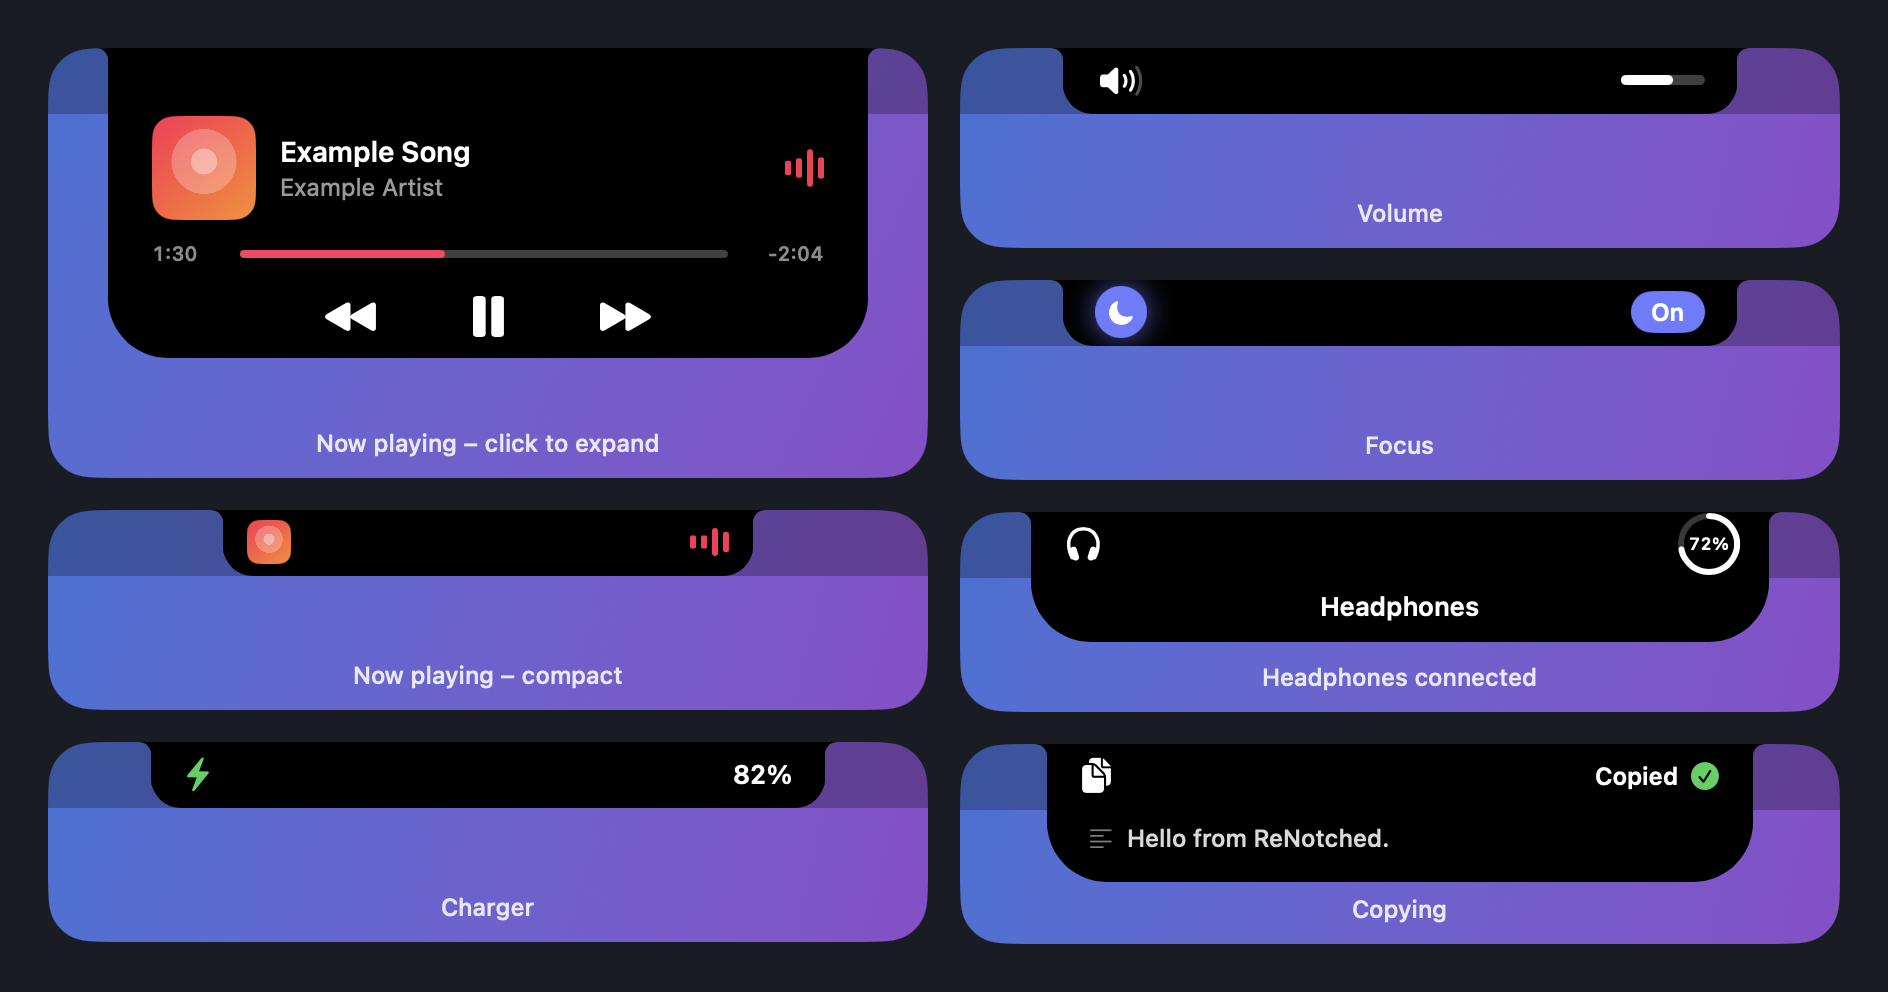
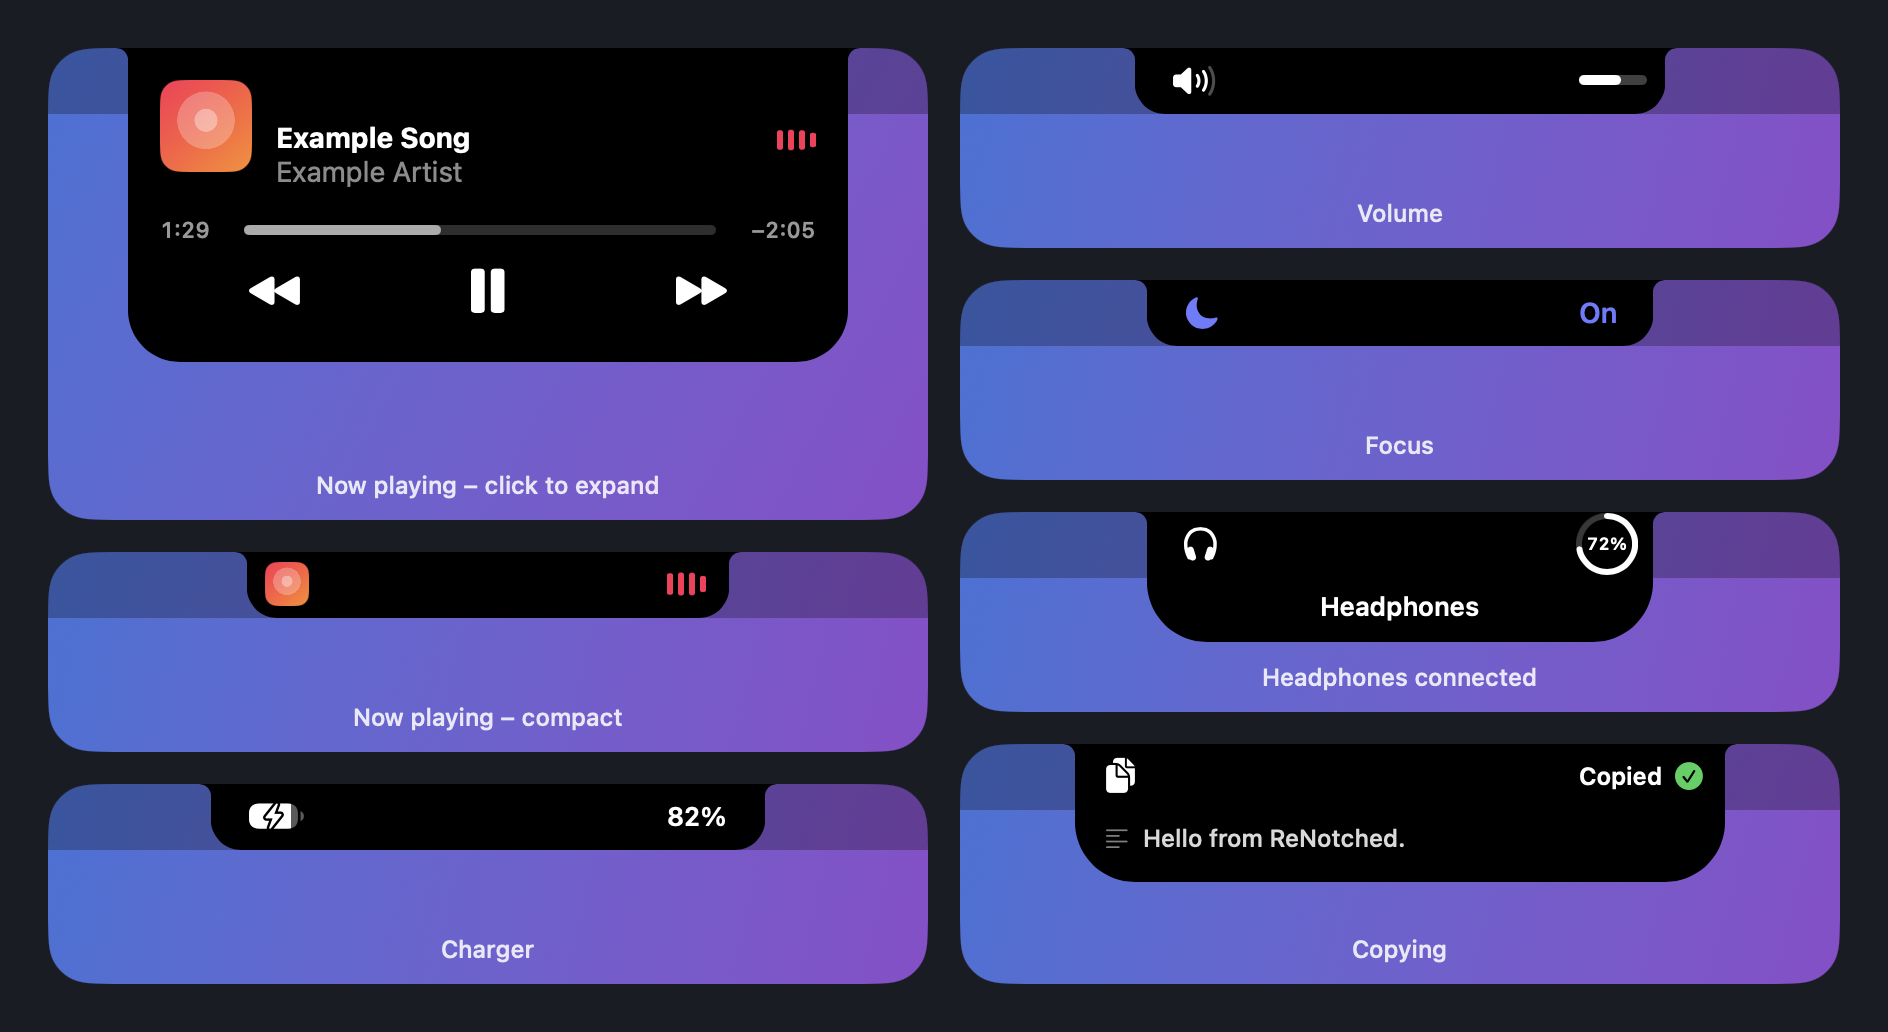
Battery from SF Symbols with the exact charge, volume island at 0, new README screenshot, version 1.0.2
- Charging shows the system battery symbol (with bolt while charging), filled to the exact charge
- Pressing volume down at 0 (or up at the maximum) shows the island too, as macOS does with its overlay
- README screenshot and feature list updated to the current design

diff --git a/Sources/ReNotched/Views/ChargingView.swift b/Sources/ReNotched/Views/ChargingView.swift
@@ -2,8 +2,11 @@ import SwiftUI
 
 // MARK: - Charging
 
+/// Charger plugged in or removed: a battery filled to the exact charge on the left (with a bolt inside while
+/// charging, like the macOS menu bar), the percentage on the right.
 struct ChargingContent: View {
     @ObservedObject var model: IslandModel
+    @State private var appeared = false
 
     var body: some View {
         let (percent, plugged): (Int, Bool) = {
@@ -11,12 +14,40 @@ struct ChargingContent: View {
             return (0, false)
         }()
         SideLayout(notchWidth: model.notch.width, height: model.notch.height) {
-            Image(systemName: plugged ? "bolt.fill" : "battery.50percent")
-                .font(.system(size: 15, weight: .semibold))
-                .foregroundStyle(plugged ? .green : .white)
-                .symbolEffect(.bounce, options: .nonRepeating, value: plugged)
+            BatteryGlyph(level: appeared ? Double(percent) / 100 : 0, charging: plugged)
+                .scaleEffect(appeared ? 1 : 0.6)
+                .opacity(appeared ? 1 : 0)
         } right: {
             Text("\(percent)%").font(.system(size: 13, weight: .semibold).monospacedDigit()).foregroundStyle(.white)
         }
+        .onAppear { withAnimation(.spring(response: 0.5, dampingFraction: 0.75)) { appeared = true } }
+    }
+}
+
+/// The battery exactly as macOS draws it in the menu bar, from SF Symbols (`battery.100percent`, with `.bolt`
+/// while charging). The symbol has no level of its own, so it is drawn twice: translucent for the empty part and
+/// solid, masked to the exact charge, for the charged part. Red at 10 % or less on battery.
+struct BatteryGlyph: View {
+    let level: Double
+    let charging: Bool
+
+    private var symbol: String { charging ? "battery.100percent.bolt" : "battery.100percent" }
+    private var fillColor: Color { !charging && level <= 0.1 ? .red : .white }
+
+    var body: some View {
+        let glyph = Image(systemName: symbol).font(.system(size: 19, weight: .regular))
+        ZStack(alignment: .leading) {
+            glyph.foregroundStyle(.white.opacity(0.35))
+            glyph.foregroundStyle(fillColor)
+                .mask(alignment: .leading) {
+                    GeometryReader { g in
+                        // the body takes up about the first 88 % of the symbol, the cap the rest
+                        Rectangle().frame(width: g.size.width * (0.04 + 0.84 * min(max(level, 0), 1)))
+                    }
+                }
+        }
+        .contentTransition(.symbolEffect(.replace))
+        .animation(.spring(response: 0.7, dampingFraction: 0.85), value: level)
+        .animation(.easeInOut(duration: 0.3), value: charging)
     }
 }

diff --git a/Sources/ReNotched/Monitors/VolumeMonitor.swift b/Sources/ReNotched/Monitors/VolumeMonitor.swift
@@ -1,5 +1,5 @@
+import AppKit
 import CoreAudio
-import Foundation
 
 /// Observes volume and mute state of the default output device.
 final class VolumeMonitor {
@@ -16,6 +16,7 @@ final class VolumeMonitor {
     private var defaultBlock: AudioObjectPropertyListenerBlock?
 
     private static let virtualMainVolume: AudioObjectPropertySelector = 0x766D_7663 // 'vmvc'
+    private var keyMonitor: Any?
 
     func start() {
         var addr = AudioObjectPropertyAddress(
@@ -26,6 +27,26 @@ final class VolumeMonitor {
         defaultBlock = block
         AudioObjectAddPropertyListenerBlock(AudioObjectID(kAudioObjectSystemObject), &addr, .main, block)
         attach()
+        watchVolumeKeys()
+    }
+
+    /// Pressing "volume down" at 0 or "volume up" at the maximum changes nothing, so Core Audio stays silent.
+    /// macOS still shows its overlay then, so the island does too: the volume keys are watched as well.
+    private func watchVolumeKeys() {
+        keyMonitor = NSEvent.addGlobalMonitorForEvents(matching: .systemDefined) { [weak self] event in
+            guard event.subtype.rawValue == 8 else { return }                 // auxiliary (media) keys
+            let key = (event.data1 & 0xFFFF_0000) >> 16, down = (event.data1 & 0xFF00) >> 8 == 0x0A
+            guard down, let self, self.lastVolume >= 0, Date() > self.ignoreUntil else { return }
+            let atBottom = key == 1 && (self.lastVolume <= 0.0005 || self.lastMuted)   // NX_KEYTYPE_SOUND_DOWN
+            let atTop = key == 0 && self.lastVolume >= 0.9995 && !self.lastMuted      // NX_KEYTYPE_SOUND_UP
+            if atBottom || atTop {
+                // let Core Audio report a real change first; only announce if nothing changed
+                let before = (self.lastVolume, self.lastMuted)
+                DispatchQueue.main.asyncAfter(deadline: .now() + 0.08) {
+                    if self.lastVolume == before.0 && self.lastMuted == before.1 { self.onChange?(self.lastVolume, self.lastMuted) }
+                }
+            }
+        }
     }
 
     private func attach() {

diff --git a/README.md b/README.md
@@ -19,12 +19,12 @@ The app is available in English and German and picks the language from your syst
 
 ## What it shows
 
-- **Volume** – a speaker icon that follows the level, with a level bar next to the notch (also for the volume keys, AirPods and mute)
+- **Volume** – a speaker icon that follows the level, with a level bar next to the notch (also for the volume keys, AirPods and mute, and when you press volume down at 0)
 - **Copying** – "Copied" with a preview of the text, file or image. Content marked as confidential by password managers is never previewed
-- **Charger** – a bolt and the battery level when you plug in or unplug the charger
-- **Focus** – the mode's icon, in its own colour, and "On" or "Off" when a Focus mode turns on or off. This is optional and off by default, because macOS only lets an app read the Focus state with Full Disk Access (see Privacy)
+- **Charger** – the battery as macOS shows it, filled to the exact level and with a bolt while charging, when you plug in or unplug the charger
+- **Focus** – the mode's icon and "On" or "Off" in the mode's colour (grey when off) when a Focus mode turns on or off, like on the iPhone. This is optional and off by default, because macOS only lets an app read the Focus state with Full Disk Access (see Privacy)
 - **Headphones** – connecting Bluetooth headphones shows their name and, if the device reports it, the battery level
-- **Now playing** – cover, title, progress and controls for whatever plays on your Mac (Music, Spotify, browsers, …). The equalizer and progress bar use the colour of the album cover and a new cover animates in. Click the island to expand it and click anywhere else to close it. When you pause, the cover shrinks and the island closes completely after 30 seconds
+- **Now playing** – cover, title, progress and controls for whatever plays on your Mac (Music, Spotify, browsers, …). The equalizer takes the colour of the album cover and a new cover animates in. Click the island to expand it and click anywhere else to close it. When you pause, the cover shrinks and the island closes completely after 30 seconds
 
 The island appears on the built-in display only, never on external monitors, and it slides away with the desktop when an app enters fullscreen and comes back when you leave it.
 
@@ -34,7 +34,7 @@ Each indicator can be switched off in the app's settings window, which is also w
 
 ReNotched. is a SwiftUI and AppKit app that draws a borderless, click-through panel on top of the notch. It reads the notch size from the screen, so the island always lines up with it. Without a notch it appears at the top centre of the screen.
 
-- **Volume** is observed through Core Audio property listeners.
+- **Volume** is observed through Core Audio property listeners; the volume keys are watched as well, so pressing them at 0 or at the maximum still shows the island.
 - **Copying** is detected by watching the pasteboard change counter twice a second (macOS has no notification for it).
 - **Charger** uses IOKit power-source notifications, so there is no polling.
 - **Headphones** use IOBluetooth connect notifications.
